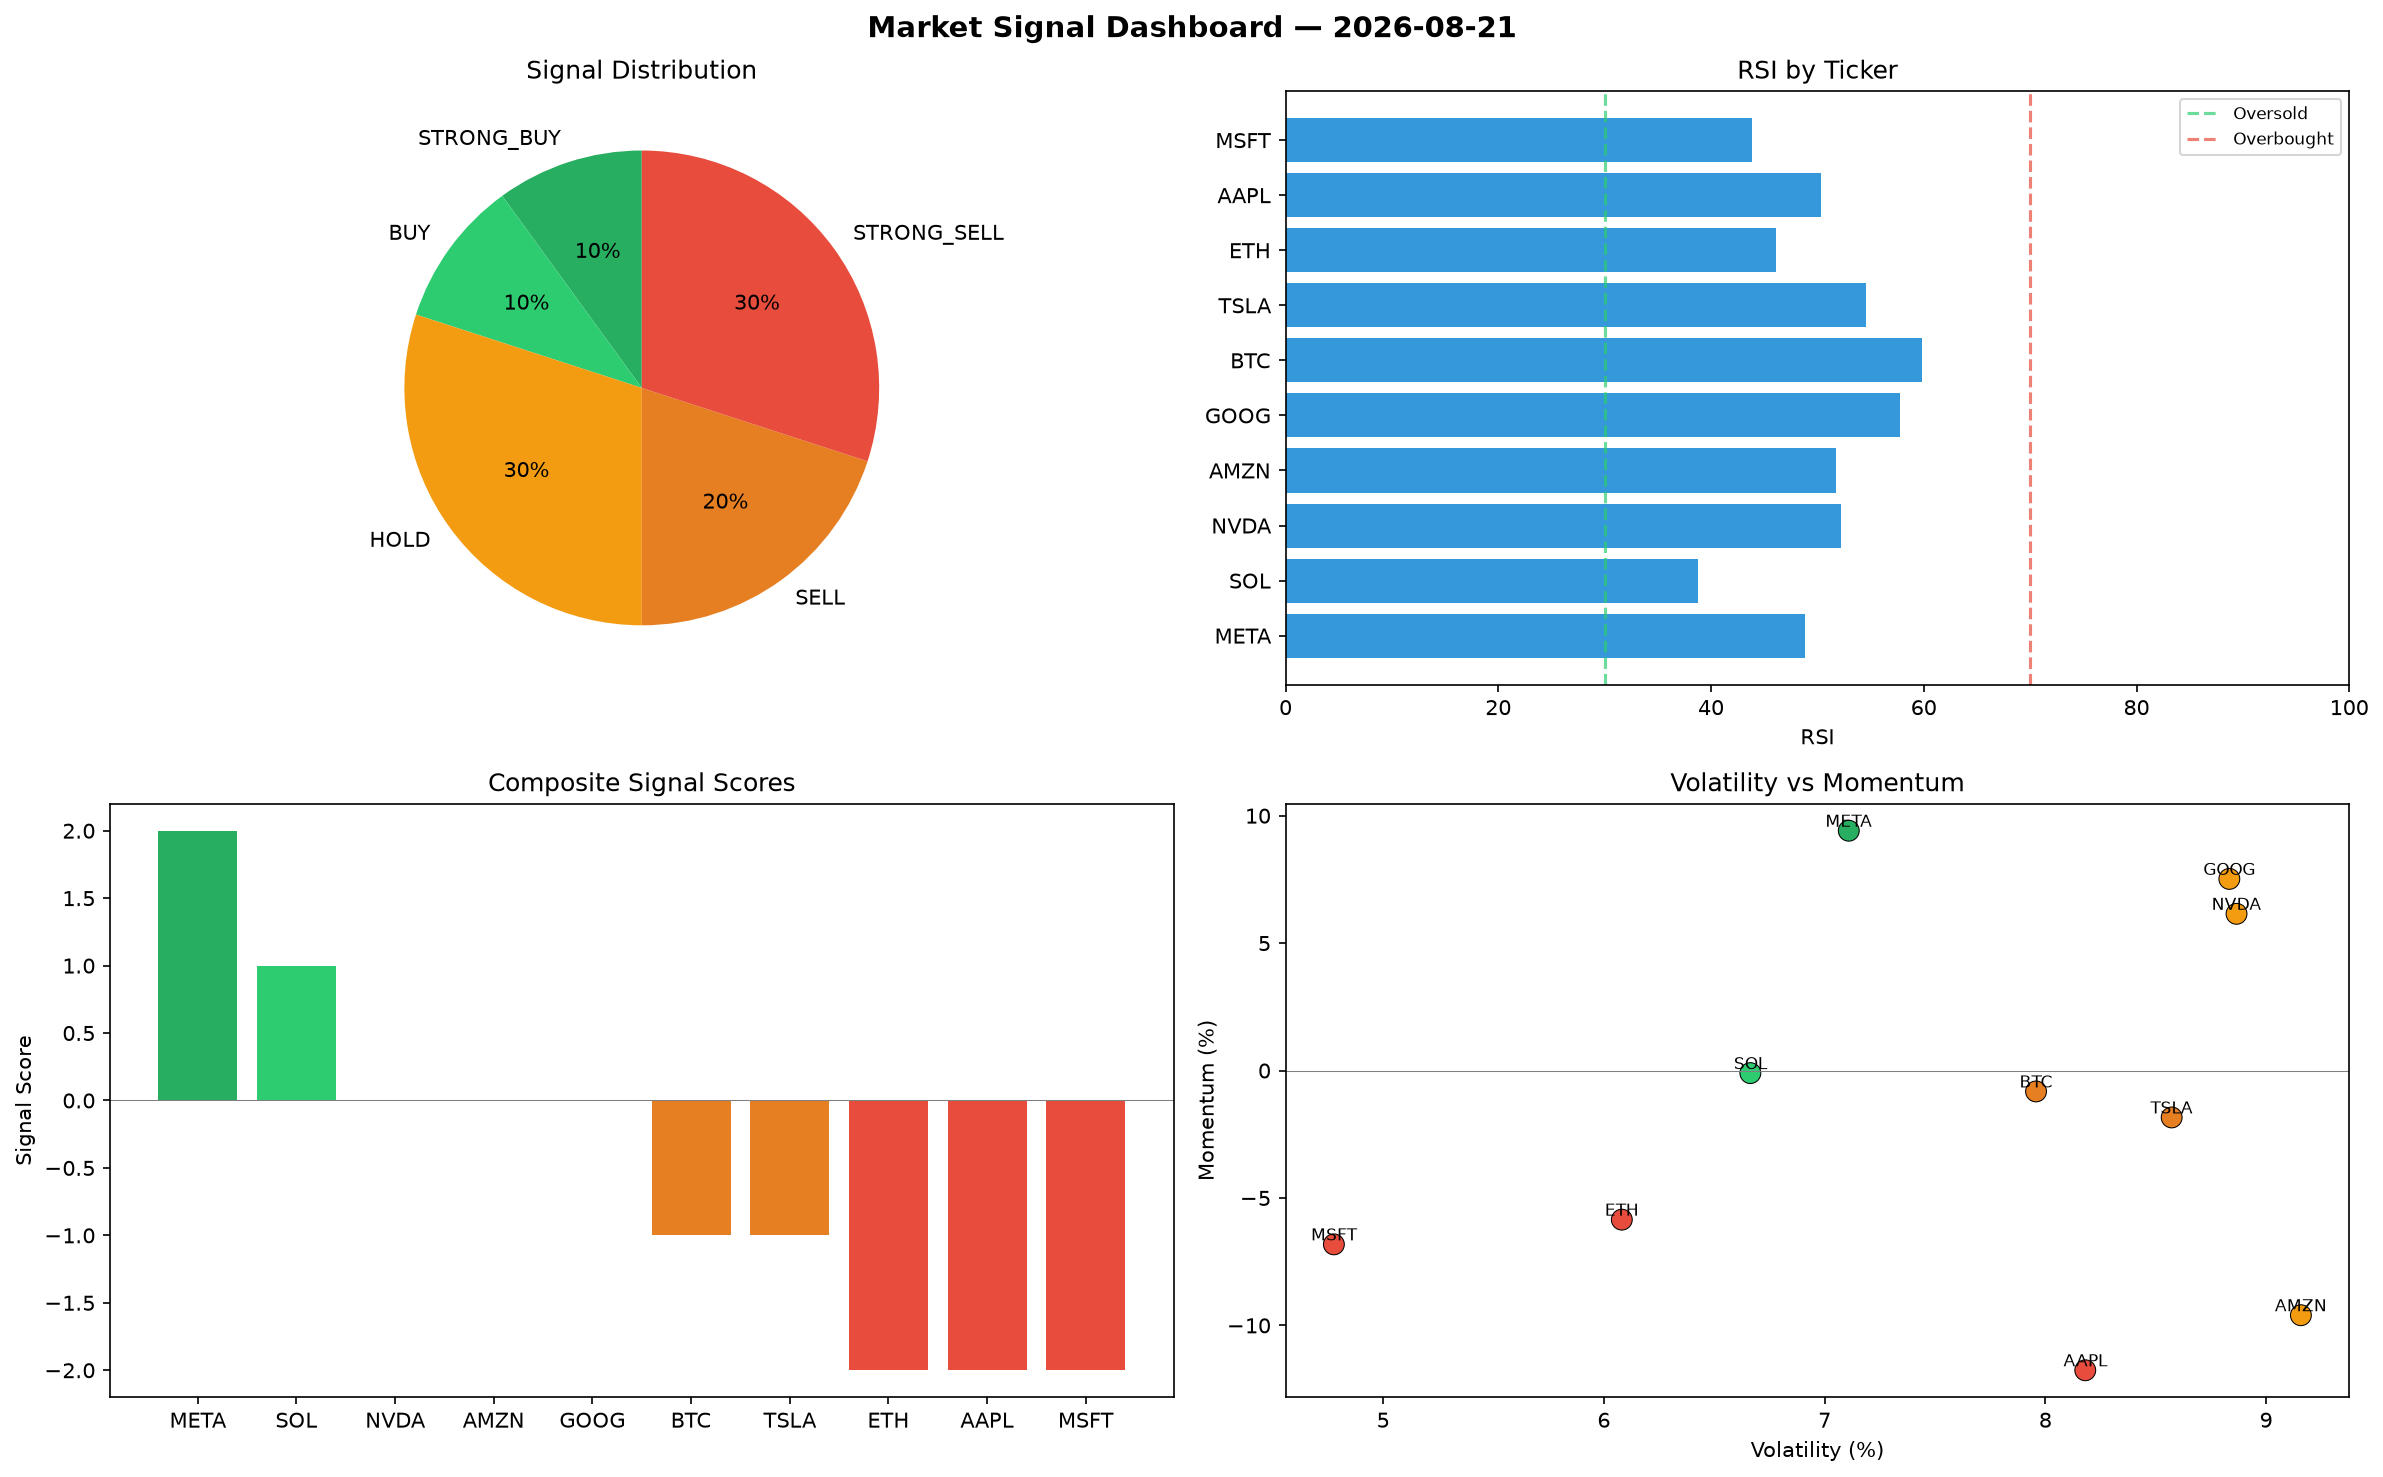
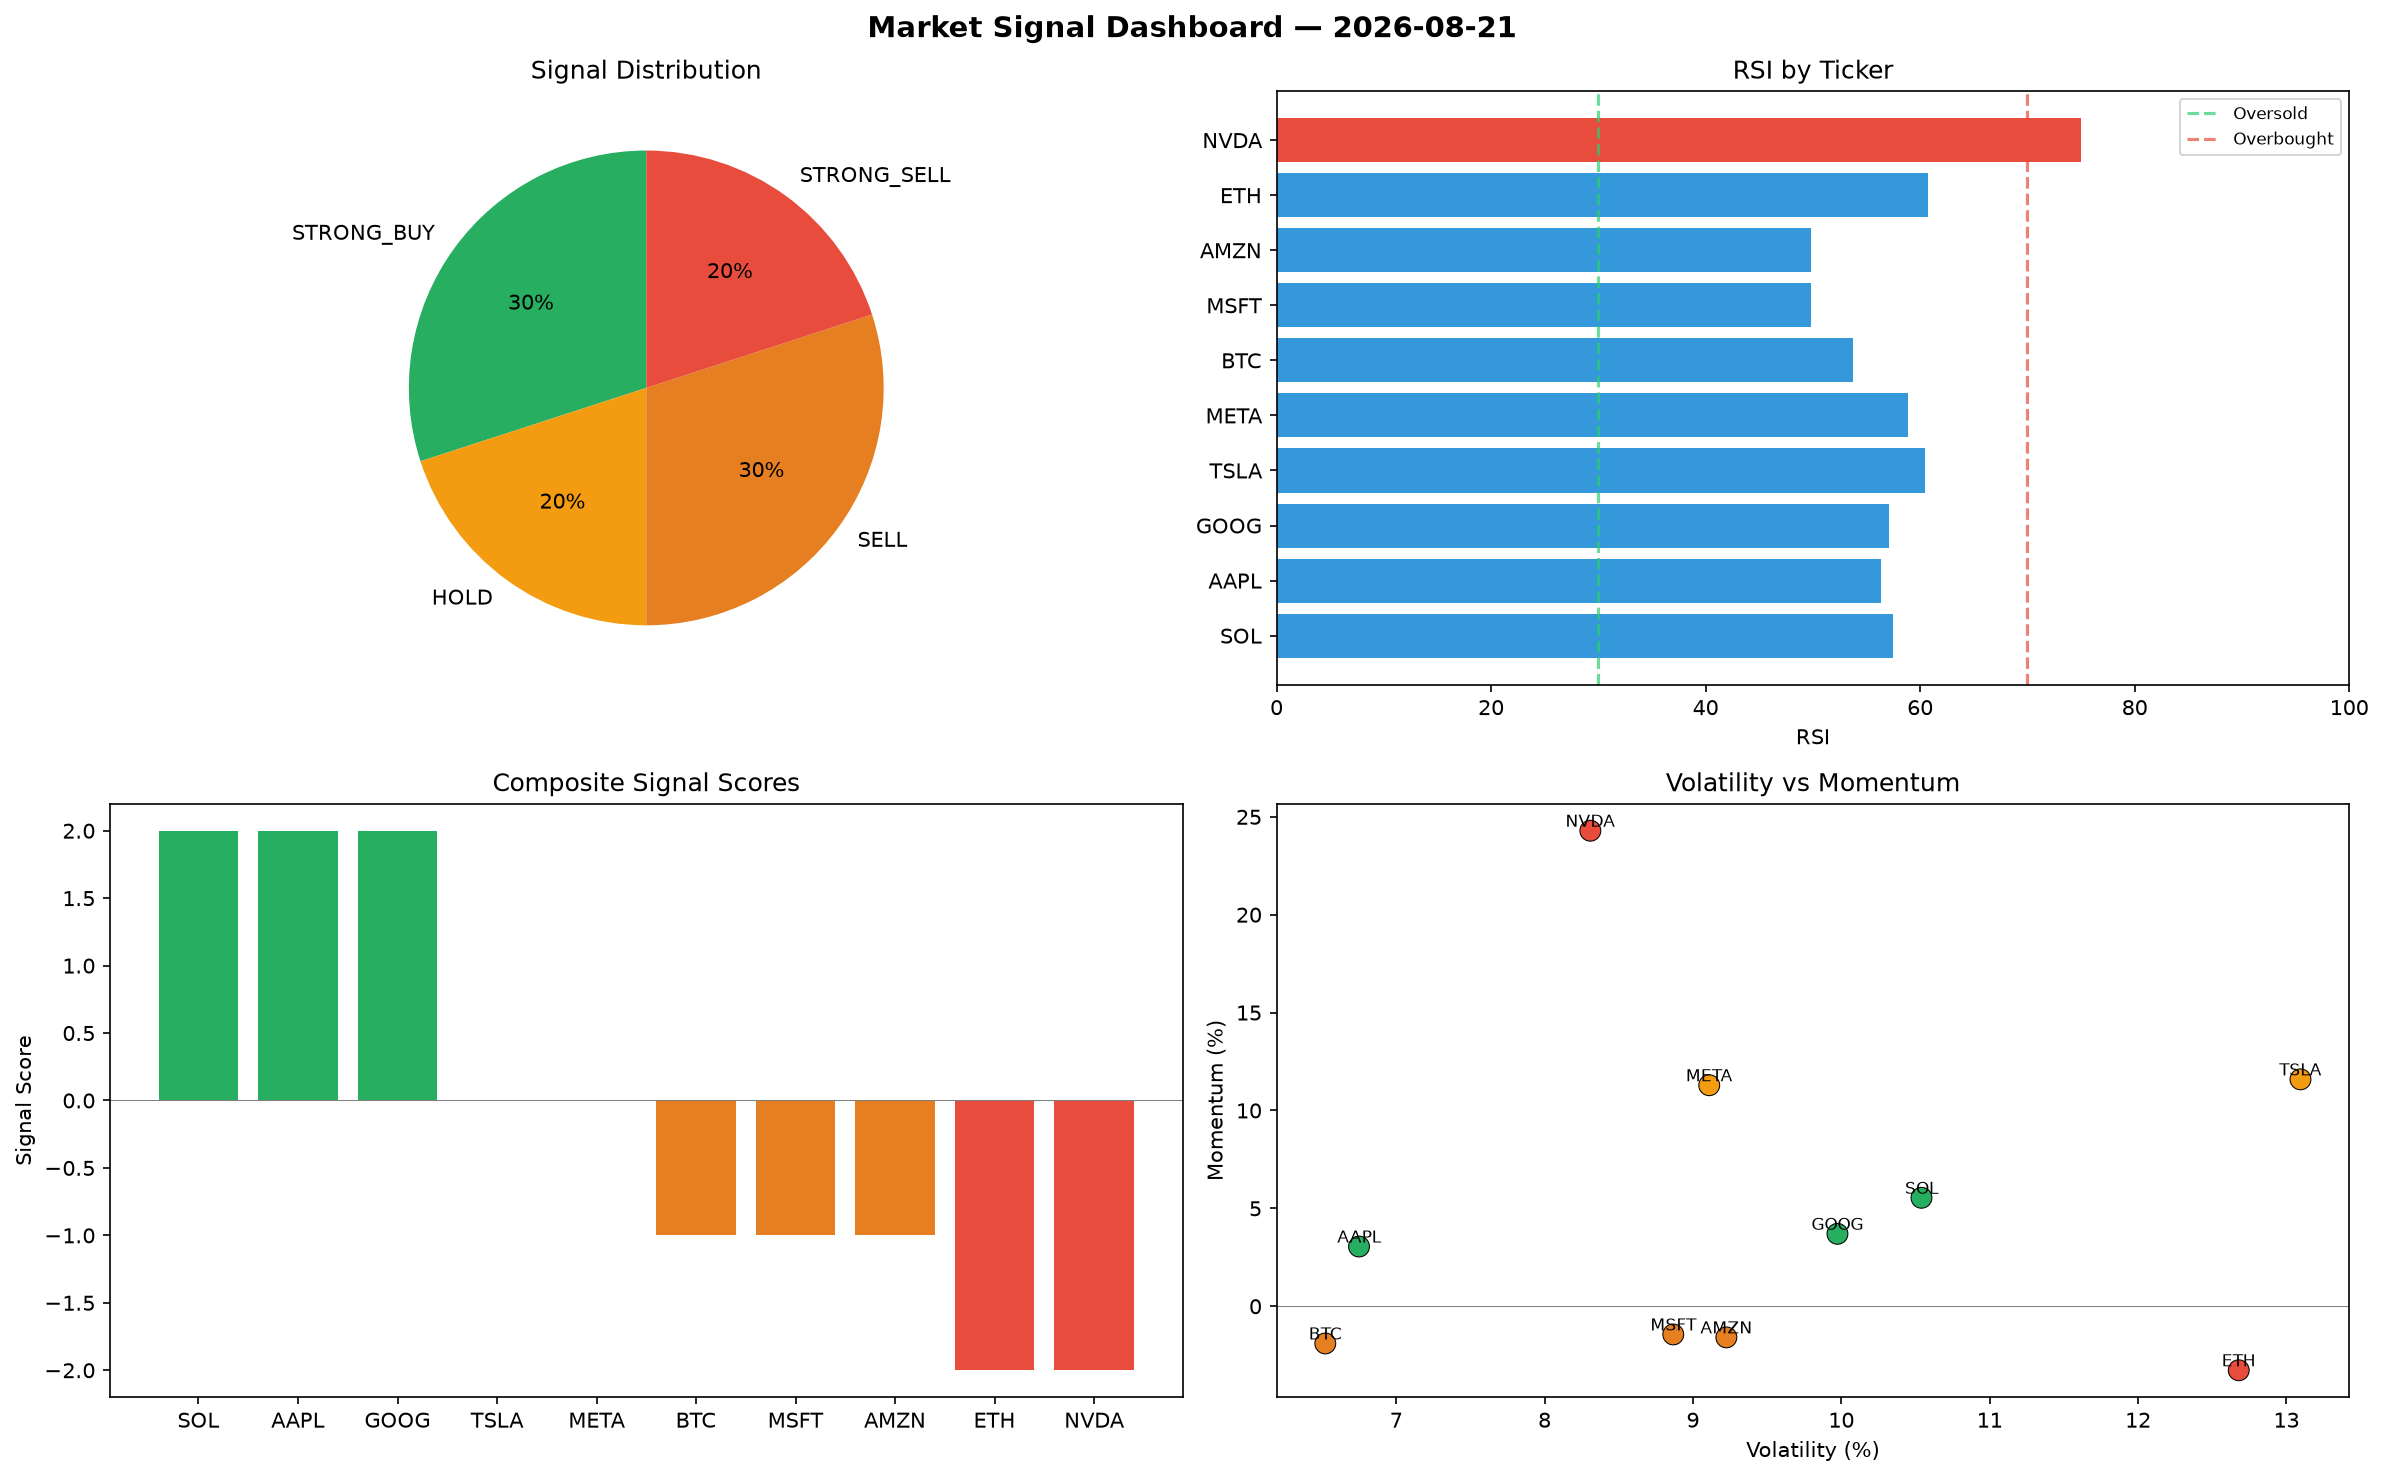
automated-bots: market signals 2026-08-21T15:03

diff --git a/logs/2026-08-21.md b/logs/2026-08-21.md
@@ -1,6 +1,6 @@
 # Market Signal Report — 2026-08-21
 
-**Run ID:** `878d0ca134` | **Buy:** 2 | **Sell:** 5 | **Hold:** 3
+**Run ID:** `719b1fa302` | **Buy:** 3 | **Sell:** 5 | **Hold:** 2
 
 ![Dashboard](2026-08-21_dashboard.png)
 
@@ -8,28 +8,28 @@
 
 | Ticker | Price | Signal | Score | RSI | Momentum | Confidence |
 |--------|-------|--------|-------|-----|----------|------------|
-| META | $4819.75 | **STRONG_BUY** | 2 | 48.79 | 0.0941 | 0.5 |
-| SOL | $3119.66 | **BUY** | 1 | 38.76 | -0.001 | 0.25 |
-| NVDA | $3760.85 | **HOLD** | 0 | 52.21 | 0.0615 | 0.0 |
-| AMZN | $2622.65 | **HOLD** | 0 | 51.74 | -0.096 | 0.0 |
-| GOOG | $4700.77 | **HOLD** | 0 | 57.78 | 0.0752 | 0.0 |
-| BTC | $2811.36 | **SELL** | -1 | 59.81 | -0.0082 | 0.25 |
-| TSLA | $2845.83 | **SELL** | -1 | 54.56 | -0.0184 | 0.25 |
-| ETH | $1524.95 | **STRONG_SELL** | -2 | 46.14 | -0.0585 | 0.5 |
-| AAPL | $2687.43 | **STRONG_SELL** | -2 | 50.32 | -0.1176 | 0.5 |
-| MSFT | $4774.54 | **STRONG_SELL** | -2 | 43.85 | -0.0682 | 0.5 |
+| SOL | $4616.36 | **STRONG_BUY** | 2 | 57.43 | 0.0554 | 0.5 |
+| AAPL | $2574.38 | **STRONG_BUY** | 2 | 56.39 | 0.0305 | 0.5 |
+| GOOG | $4570.26 | **STRONG_BUY** | 2 | 57.14 | 0.037 | 0.5 |
+| TSLA | $4541.42 | **HOLD** | 0 | 60.46 | 0.1159 | 0.0 |
+| META | $4464.34 | **HOLD** | 0 | 58.88 | 0.1129 | 0.0 |
+| BTC | $1291.57 | **SELL** | -1 | 53.74 | -0.019 | 0.25 |
+| MSFT | $4402.02 | **SELL** | -1 | 49.81 | -0.0144 | 0.25 |
+| AMZN | $1715.35 | **SELL** | -1 | 49.86 | -0.0159 | 0.25 |
+| ETH | $5369.15 | **STRONG_SELL** | -2 | 60.73 | -0.0327 | 0.5 |
+| NVDA | $4906.27 | **STRONG_SELL** | -2 | 75.03 | 0.2429 | 0.5 |
 
 ## Delta vs Yesterday
 
 | Ticker | Today | Yesterday | Price Change | Signal Changed |
 |--------|-------|-----------|-------------|----------------|
-| META | STRONG_BUY | HOLD | 📈 180.58% | ⚠ YES |
-| SOL | BUY | STRONG_BUY | 📉 -34.77% | ⚠ YES |
-| NVDA | HOLD | HOLD | 📈 28.76% | — |
-| AMZN | HOLD | STRONG_BUY | 📈 17.07% | ⚠ YES |
-| GOOG | HOLD | HOLD | 📈 107.58% | — |
-| BTC | SELL | HOLD | 📈 135.07% | ⚠ YES |
-| TSLA | SELL | HOLD | 📈 10.02% | ⚠ YES |
-| ETH | STRONG_SELL | HOLD | 📉 -58.46% | ⚠ YES |
-| AAPL | STRONG_SELL | HOLD | 📉 -6.51% | ⚠ YES |
-| MSFT | STRONG_SELL | STRONG_SELL | 📈 1921.14% | — |
+| SOL | STRONG_BUY | STRONG_BUY | 📉 -3.48% | — |
+| AAPL | STRONG_BUY | HOLD | 📉 -10.44% | ⚠ YES |
+| GOOG | STRONG_BUY | HOLD | 📈 101.81% | ⚠ YES |
+| TSLA | HOLD | HOLD | 📈 75.57% | — |
+| META | HOLD | HOLD | 📈 159.89% | — |
+| BTC | SELL | HOLD | 📈 7.99% | ⚠ YES |
+| MSFT | SELL | STRONG_SELL | 📈 1763.45% | ⚠ YES |
+| AMZN | SELL | STRONG_BUY | 📉 -23.43% | ⚠ YES |
+| ETH | STRONG_SELL | HOLD | 📈 46.25% | ⚠ YES |
+| NVDA | STRONG_SELL | HOLD | 📈 67.98% | ⚠ YES |
